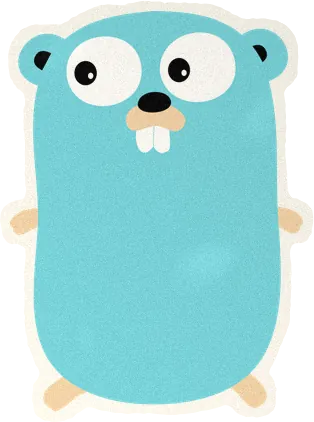
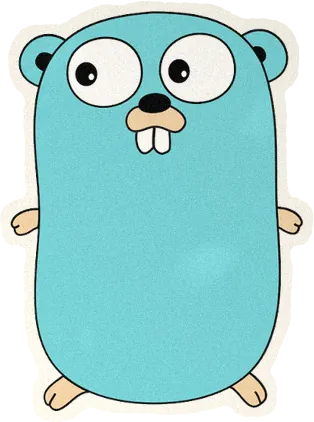
content: Show Jinx for Arcane and an outlined gopher for Go
Arcane's title logo gives way to a die-cut Jinx, sized like the other
characters. The gopher switches to an outlined drawing with its white
background cut away.

diff --git a/src/lib/site.ts b/src/lib/site.ts
@@ -303,7 +303,7 @@ export const stickers: Sticker[] = [
 	{ name: 'kyobobooks', url: buildWikipediaURL('Kyobo Book Centre'), imageURL: '/images/stickers/kyobo.webp', width: 440, height: 318, isDieCut: true },
 	{ name: 'star trek: lower decks', url: buildWikipediaURL('Star Trek: Lower Decks'), imageURL: '/images/stickers/lower-decks.webp', width: 425, height: 110, isDieCut: true },
 	{ name: 'no starch press', url: buildWikipediaURL('No Starch Press'), imageURL: '/images/stickers/no-starch-press.webp', width: 435, height: 86, isDieCut: true },
-	{ name: 'arcane', url: buildWikipediaURL('Arcane (TV series)'), imageURL: '/images/stickers/arcane.webp', width: 422, height: 96, isDieCut: true }
+	{ name: 'arcane', url: buildWikipediaURL('Arcane (TV series)'), imageURL: '/images/stickers/arcane.webp', width: 145, height: 398, isDieCut: true }
 ];
 
 export const despised = ['conservatives', 'windows®', 'bloat', 'bothsidesism', 'yellow journalism'];
